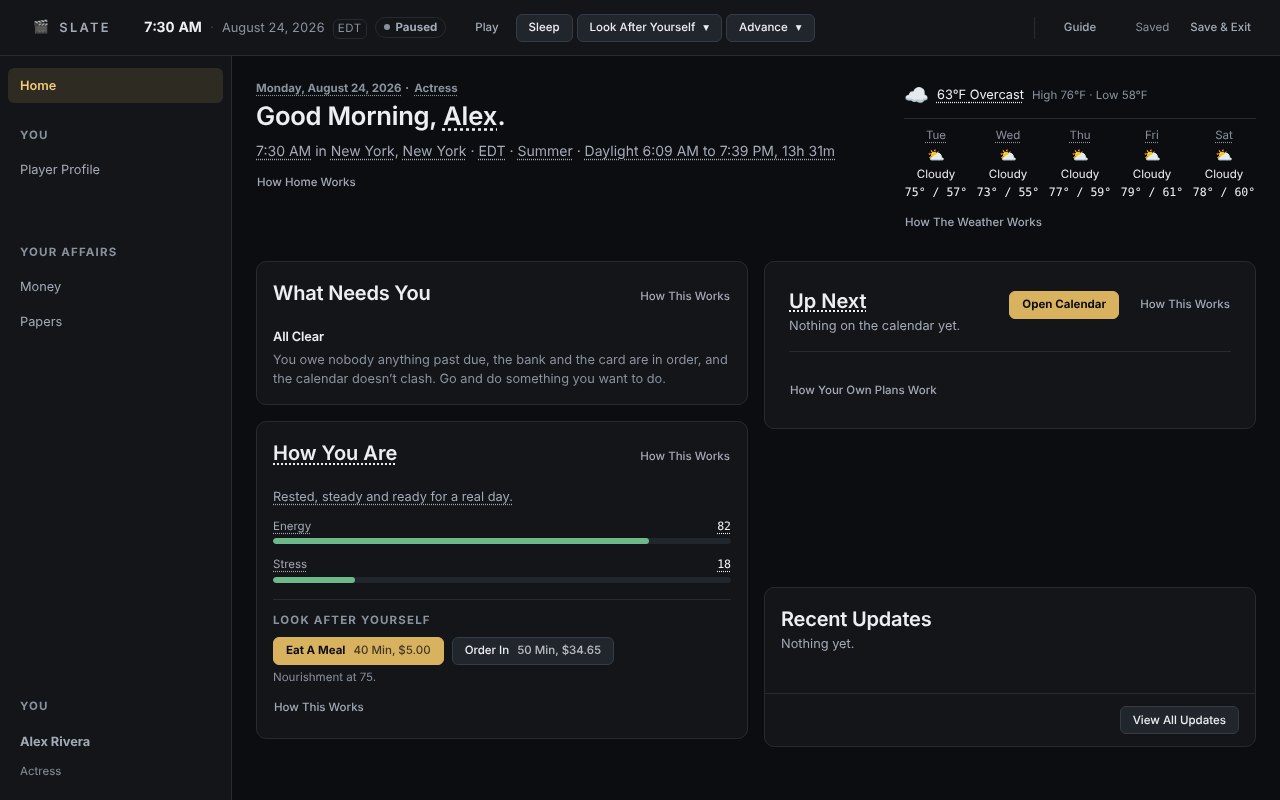
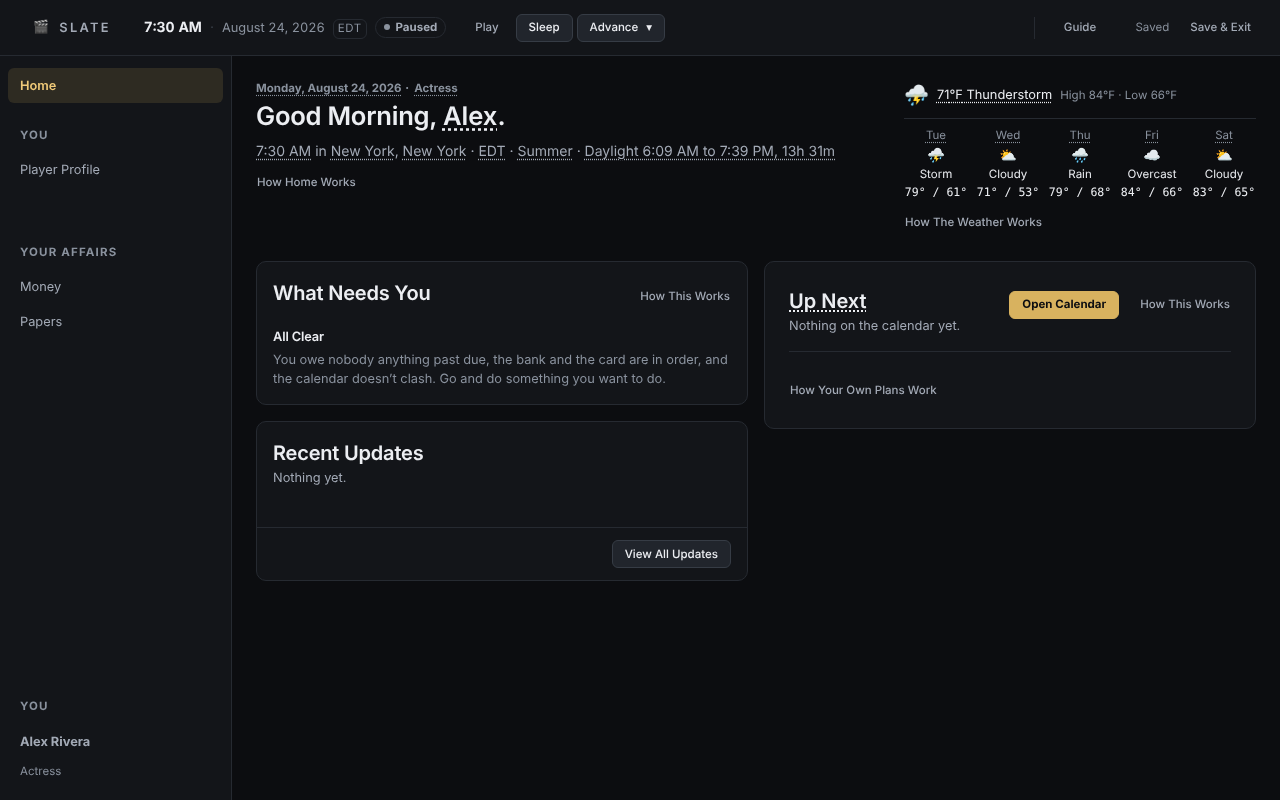
Home loses How You Are and Look After Yourself with their engines; the clock, the weather, the money and the papers are held to full worldwide coverage, with what each covers today said plainly
Claude-Session: https://claude.ai/code/session_01HBdcuKzBBMbipfFQSByALG

diff --git a/docs/rebuild/KEEP.md b/docs/rebuild/KEEP.md
@@ -711,3 +711,54 @@ to its detail); the weather and its five-day forecast (the climate model by plac
 waiting, what's past due, the bank and the card, the calendar's clashes); How You Are (energy and stress, and Look
 After Yourself with Eat A Meal and Order In, each with its time and its cost in the town's prices); Up Next with
 Open Calendar; Recent Updates with View All Updates; the Guide button and the How This Works links as a manual.
+
+---
+
+## 18. Home: How You Are and Look After Yourself gone with their engines; the clock, the weather, the money and the papers held to full worldwide coverage (DECIDED 2026-10-26)
+
+**Owner:** "Remove all those on How You Are, and remove Look After Yourself and the engine of those. Make sure the
+clock is still ticking accurately as a real-time clock, and the weather matches back with the geography and map
+covering every single country and territory. Same with the banking system in Your Money and Your Papers: the full
+world map, the coverage matrix covers it all."
+
+### Gone, with their engines
+
+- **How You Are**: the panel, the line on how you are, Energy and Stress (Readiness went in entry 17). With it the
+  life engine's energy and stress: what a night puts back, what a day spends, stress's gain and recovery, nerves,
+  running on empty, overwrought, the dispositions' readers of them (already gone with entry 8).
+- **Look After Yourself**: the panel's Eat A Meal and Order In with their times and costs, the nourishment line, and
+  the Look After Yourself menu in the top bar. With it the nourishment engine, meals and their prices by town, the
+  household's food cost, the Frugal/Spender readers (already gone).
+- **Held, not decided:** the **Sleep** button in the top bar. It belonged to the energy engine (the night restores
+  energy), but it is also the way the clock is moved to the next morning; if the owner wants it as a clock action
+  alone, it stays as that, else it goes with energy.
+
+### Held to full coverage, with what is true today
+
+- **The clock.** Real time, in the town's own local time: one game minute per real minute while playing, paused
+  when paused, every place on its IANA time zone with daylight saving as that zone keeps it, the season and the
+  daylight from the town's latitude and the date, and every jump (Advance, Sleep) stopping at a commitment that
+  wants the player. This is the engine as it stands and it already covers every place in the gazetteer, since a
+  time zone is part of each place's record. **Kept, and held to accuracy**: the new build proves the clock against
+  real zone rules (a test per zone family, DST transitions included) rather than assuming the browser's tables.
+- **The weather.** Today: a climate model, physics by latitude, longitude and coast, with a hand-kept table of
+  Köppen-type classifications for the countries, regions and cities people most look at, and a fallback by latitude
+  everywhere else; the weather itself a pure function of the seed, the place and the day, so it covers every one of
+  the 170,911 places, but is *calibrated* for a few dozen, and the screen says so. **Required**: the climate behind
+  every country and territory researched to its own published normals (a national meteorological service's or a
+  recognized climatology's figures for its places), each cited in the register, so the weather at any town matches
+  that town's real climate, not a latitude guess; the fallback by latitude stays only for a place whose country's
+  figures can't be reached, and is marked so.
+- **Your Money.** Today: real banks with fee sheets, account formats and returned-payment rules for thirteen
+  countries; a currency for every country; exchange rates estimated. **Required**: the full matrix, every country
+  and territory's banks, fees, account formats, cards and credit systems as they really are, from the banks' own
+  sheets and the regulators' pages, with the currency and how pay and prices move in it; a country whose banks'
+  pages can't be reached is in the matrix with the blocker, and the game says what isn't modeled there.
+- **Your Papers.** Today: passports researched for fifteen countries from their offices' own pages (fees, times,
+  expedited services, validity, from abroad), the US package of papers (passport, license, Social Security, the
+  I-9, taxes and returns) in depth, visa and work routes for the US, the UK and Australia. **Required**: every
+  country and territory's passport office, ID, visas, residence and work permissions, from the government's own
+  pages, in the register, with the same rule for the unreachable.
+
+These four are the first systems of the new build to be built, since every page so far reads them, and entry 6's
+three absolutes apply to each without exception.

diff --git a/docs/rebuild/SCREENS.md b/docs/rebuild/SCREENS.md
@@ -94,8 +94,8 @@ Live and Food Each Month are gone (entry 15).
 
 ## Screen 7. Home, the first morning
 
-No tutorial (entry 16): nothing locked, no guide line, no chapter count. The top bar (the clock, Paused, Play, Sleep,
-Look After Yourself, Advance, Guide as a manual, Saved, Save & Exit), the menu down the left, the greeting with the
-date and the town's line, the weather and its five-day forecast, and the panels What Needs You, How You Are (energy,
-stress, readiness, Look After Yourself), Up Next with the calendar, and Recent Updates. The School and Career menu entries, the term's events, the School's welcome notice and the readiness meter are gone
+No tutorial (entry 16): nothing locked, no guide line, no chapter count. The top bar (the clock, Paused, Play, Sleep (held), Advance,
+Guide as a manual, Saved, Save & Exit), the menu down the left (Player Profile, Money, Papers), the greeting with the
+date and the town's line, the weather and its five-day forecast, and the panels What Needs You, Up Next with the
+calendar, and Recent Updates. How You Are and Look After Yourself are gone with their engines (entry 18). The School and Career menu entries, the term's events, the School's welcome notice and the readiness meter are gone
 with their engines (entry 17); the rest stands with its engine until the owner rules on it, panel by panel.
